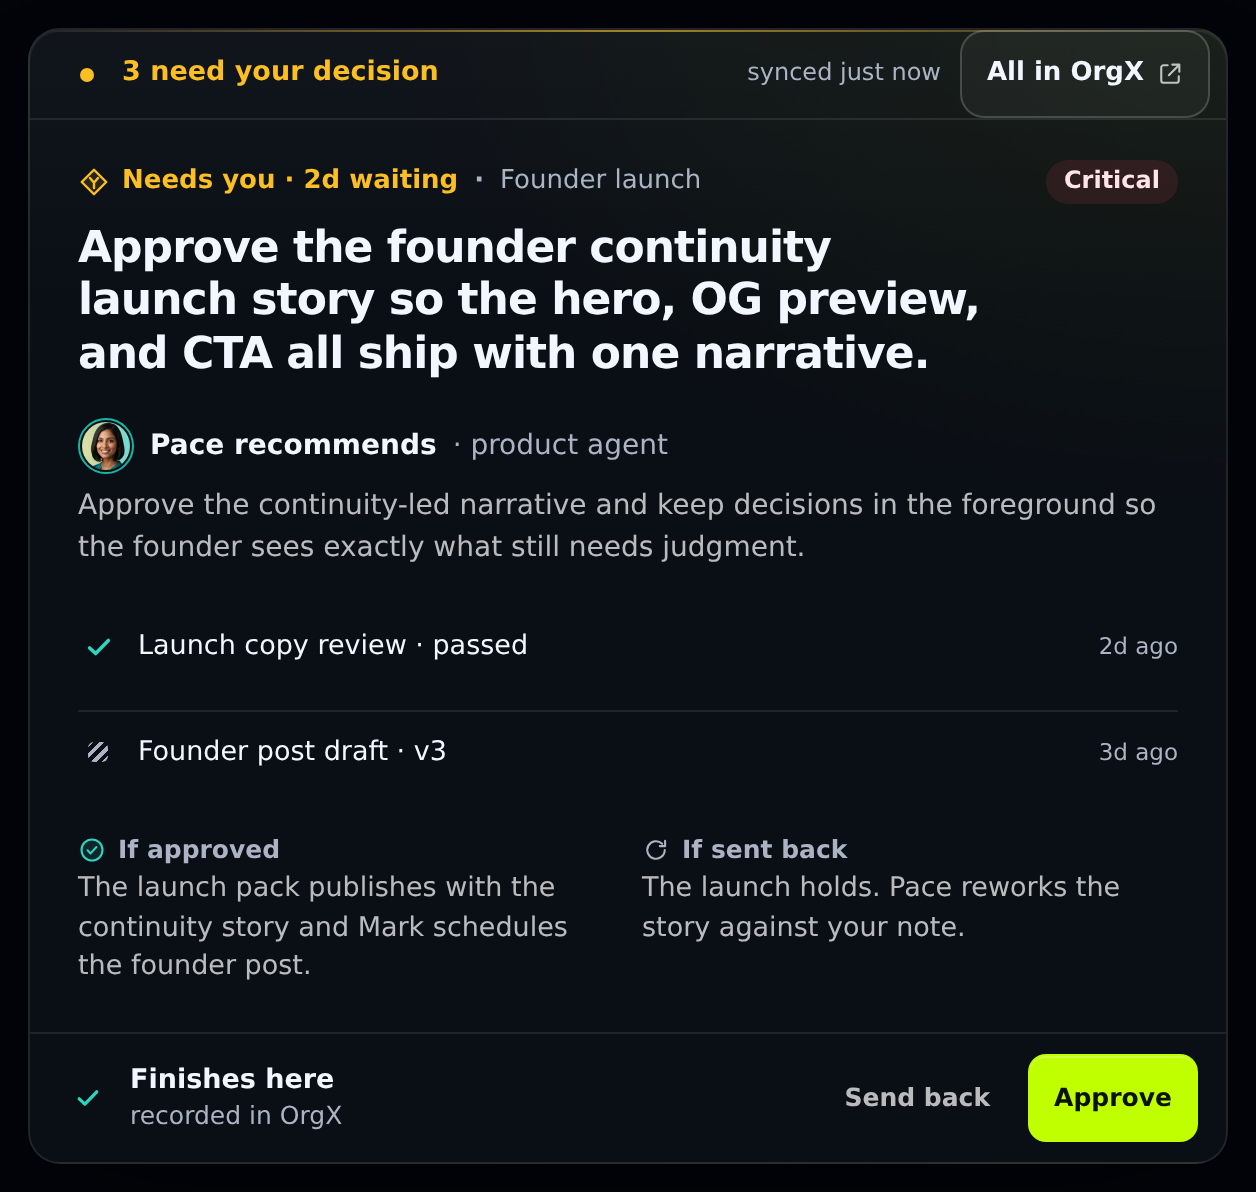
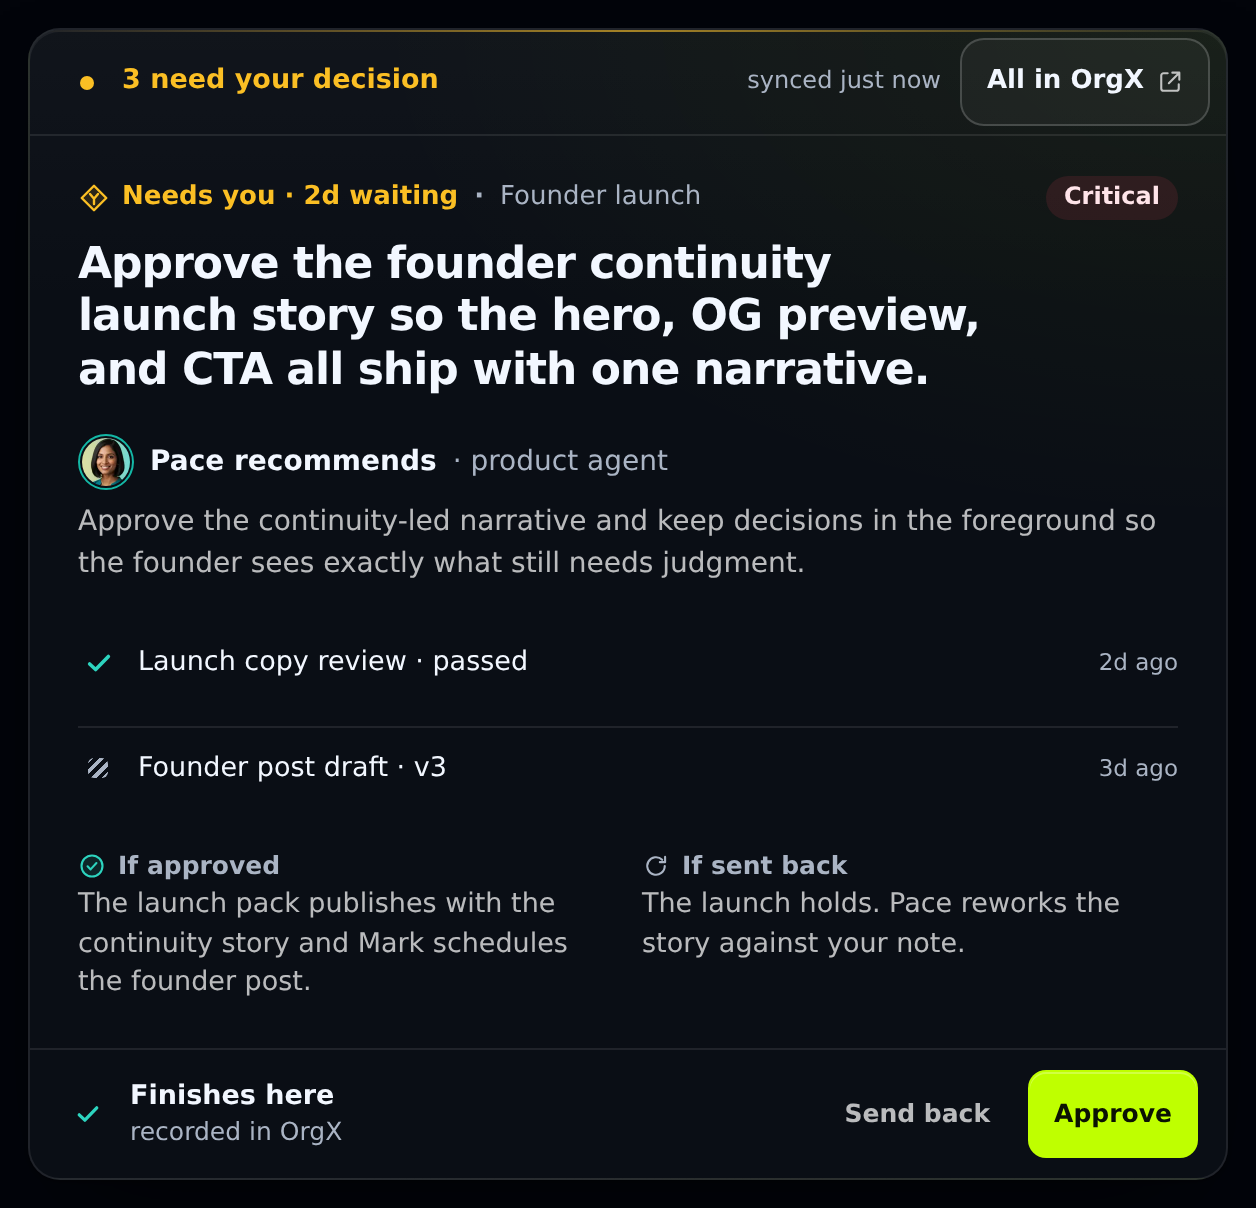
decisions: give the header's OrgX link room above and below
Claude-Session: https://claude.ai/code/session_01RM5b4LVyYeCd4HzETsPviS

diff --git a/public/widgets/decisions.html b/public/widgets/decisions.html
@@ -124,7 +124,7 @@
       font-size: 13px; font-weight: 650; line-height: 1.2; color: var(--ox-text); text-decoration: none; white-space: nowrap;
       transition: background 160ms ease, border-color 160ms ease;
     }
-    .dq-head-link { padding: 0 12px; margin: -2px 0; }
+    .dq-head-link { padding: 0 12px; margin: 4px 0; }
     .dq-head-link:hover, .dq-all:hover { background: var(--ox-hover); border-color: var(--ox-text-muted); }
     .dq-head-link svg, .dq-all svg { width: 14px; height: 14px; color: var(--ox-text-2); }
     .dq-head [slot="meta"] { font: 500 12px/1.3 var(--ox-font); font-variant-numeric: tabular-nums; }
